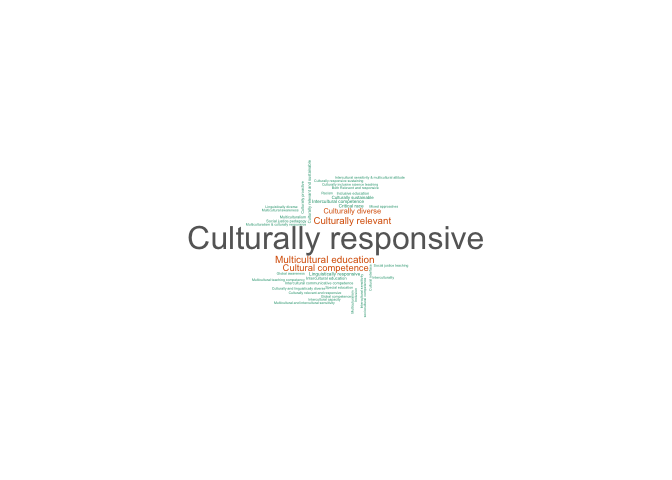
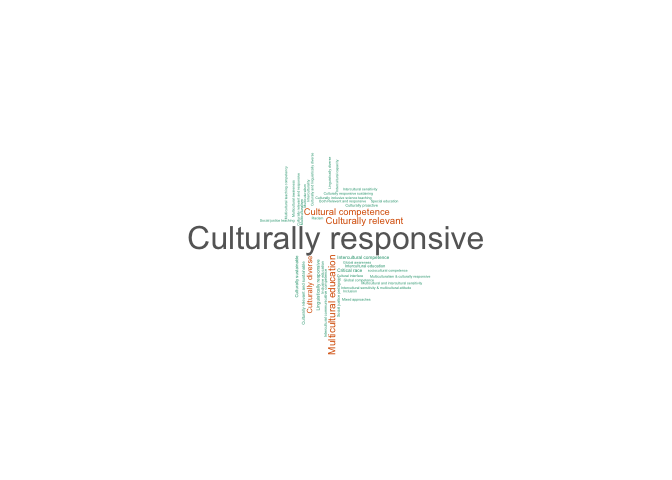
Update

Changed region(s): [[0.375, 0.5312, 0.625, 0.75], [0.375, 0.3125, 0.5938, 0.4688]]

diff --git a/index.md b/index.md
@@ -3,11 +3,20 @@ Quantitative and Qualitative Data Visualization
 Faisal Mustafa,
 November 7, 2025 (Updated on November 07, 2025)
 
-- [WordCoud](#wordcoud)
-- [Including Code](#including-code)
-- [Including Plots](#including-plots)
+- [Quantitative Data Visualization](#quantitative-data-visualization)
+  - [Factor Analysis](#factor-analysis)
+- [Qualitative Data Visualization](#qualitative-data-visualization)
+  - [WordCoud](#wordcoud)
+  - [Linking Demographic Informatic with a Bipartite
+    Chart](#linking-demographic-informatic-with-a-bipartite-chart)
 
-## WordCoud
+## Quantitative Data Visualization
+
+### Factor Analysis
+
+## Qualitative Data Visualization
+
+### WordCoud
 
 WordCloud can be used to dhow the trend in the data. For this purpose,
 let’s use the data that from ……
@@ -20,20 +29,20 @@ df_wordcloud <- read.csv("https://faisalmustafa.github.io/data_visualization/dat
 head(df_wordcloud)
 ```
 
-    ##   X                                x
-    ## 1 1            Culturally responsive
-    ## 2 2 Culturally responsive sustaining
-    ## 3 3         Intercultural competence
-    ## 4 4         sociocultural competence
-    ## 5 5                  Multicuturalism
-    ## 6 6            Culturally responsive
+    ##                               Term
+    ## 1            Culturally responsive
+    ## 2 Culturally responsive sustaining
+    ## 3         Intercultural competence
+    ## 4         sociocultural competence
+    ## 5                  Multicuturalism
+    ## 6            Culturally responsive
 
 Next, let’s create a frequency table based on the data, and remove
 record containing *Not Applicable*.
 
 ``` r
 library(dplyr)
-tb <- as.data.frame(table(df_wordcloud$x)) %>% 
+tb <- as.data.frame(table(df_wordcloud$Term)) %>% 
   filter(Var1 != "Not Applicable")
 ```
 
@@ -56,6 +65,12 @@ instance, let’s use `wordcloud` package.
 library(wordcloud)
 ```
 
+``` r
+wordcloud(words = tb$Var1 , freq = tb$Freq, scale=c(2,0.2), min.freq = 1,
+          max.words=100, random.order=FALSE, rot.per=0.35,
+          colors= RColorBrewer::brewer.pal(8, "Dark2"))
+```
+
 ![](index_files/figure-gfm/unnamed-chunk-6-1.png)<!-- -->
 
 To save the image into a file (e.g., PNG) and adjust its size and
@@ -71,27 +86,7 @@ wordcloud(words = tb$Var1 , freq = tb$Freq, scale=c(2,0.2), min.freq = 1,
 dev.off()
 ```
 
-## Including Code
-
-You can include R code in the document as follows:
-
-``` r
-summary(cars)
-```
-
-    ##      speed           dist       
-    ##  Min.   : 4.0   Min.   :  2.00  
-    ##  1st Qu.:12.0   1st Qu.: 26.00  
-    ##  Median :15.0   Median : 36.00  
-    ##  Mean   :15.4   Mean   : 42.98  
-    ##  3rd Qu.:19.0   3rd Qu.: 56.00  
-    ##  Max.   :25.0   Max.   :120.00
-
-## Including Plots
-
-You can also embed plots, for example:
-
-![](index_files/figure-gfm/pressure-1.png)<!-- -->
+### Linking Demographic Informatic with a Bipartite Chart
 
 Note that the `echo = FALSE` parameter was added to the code chunk to
 prevent printing of the R code that generated the plot.
